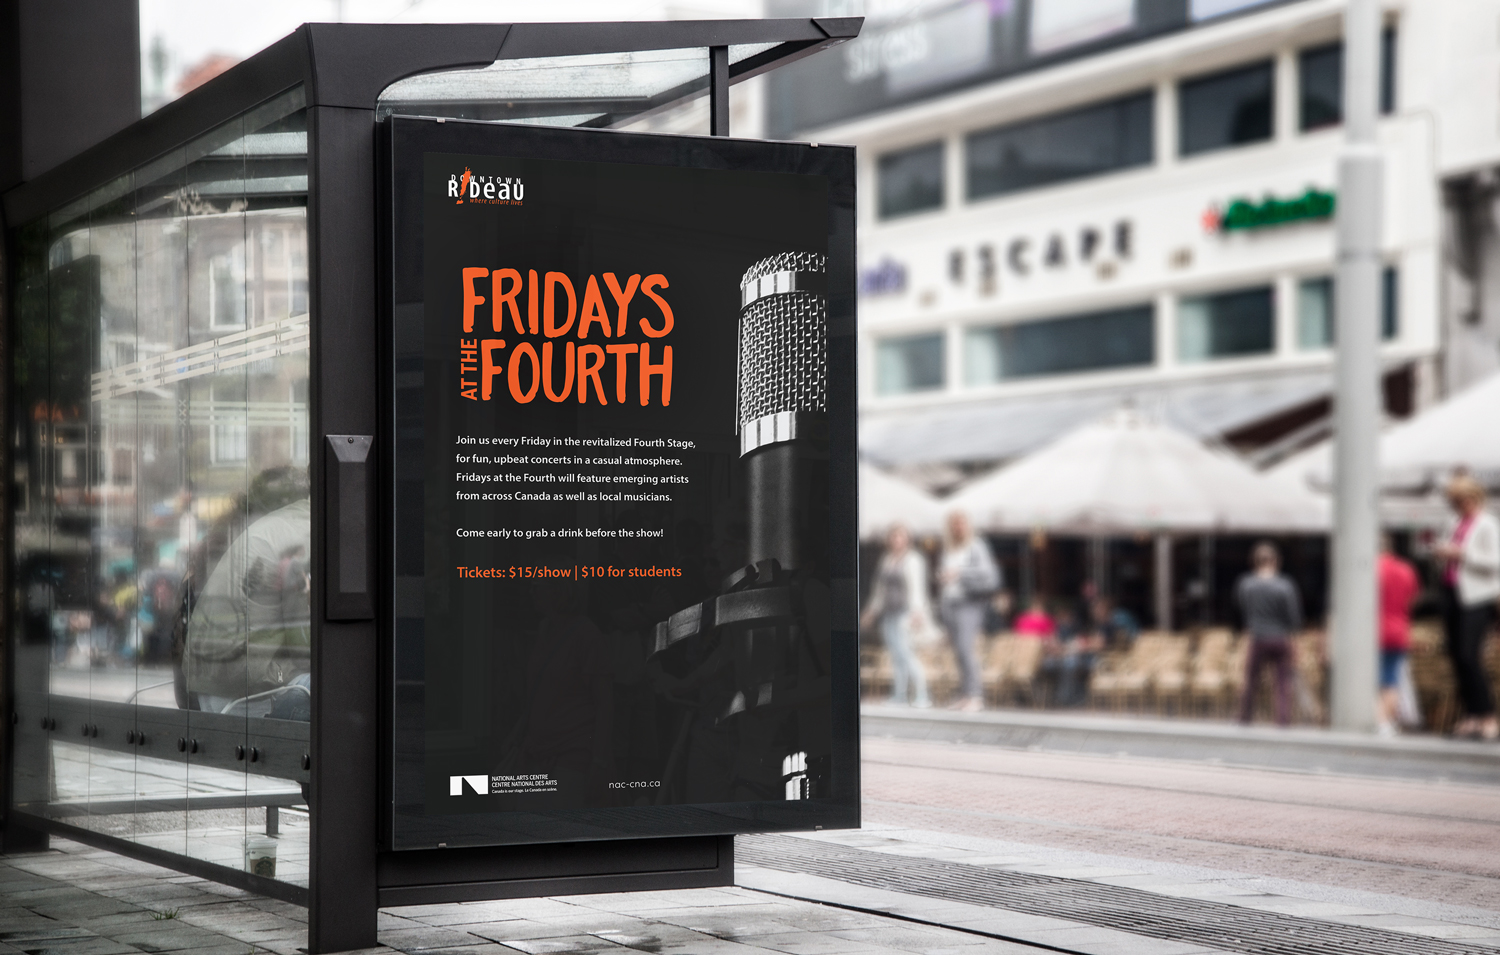
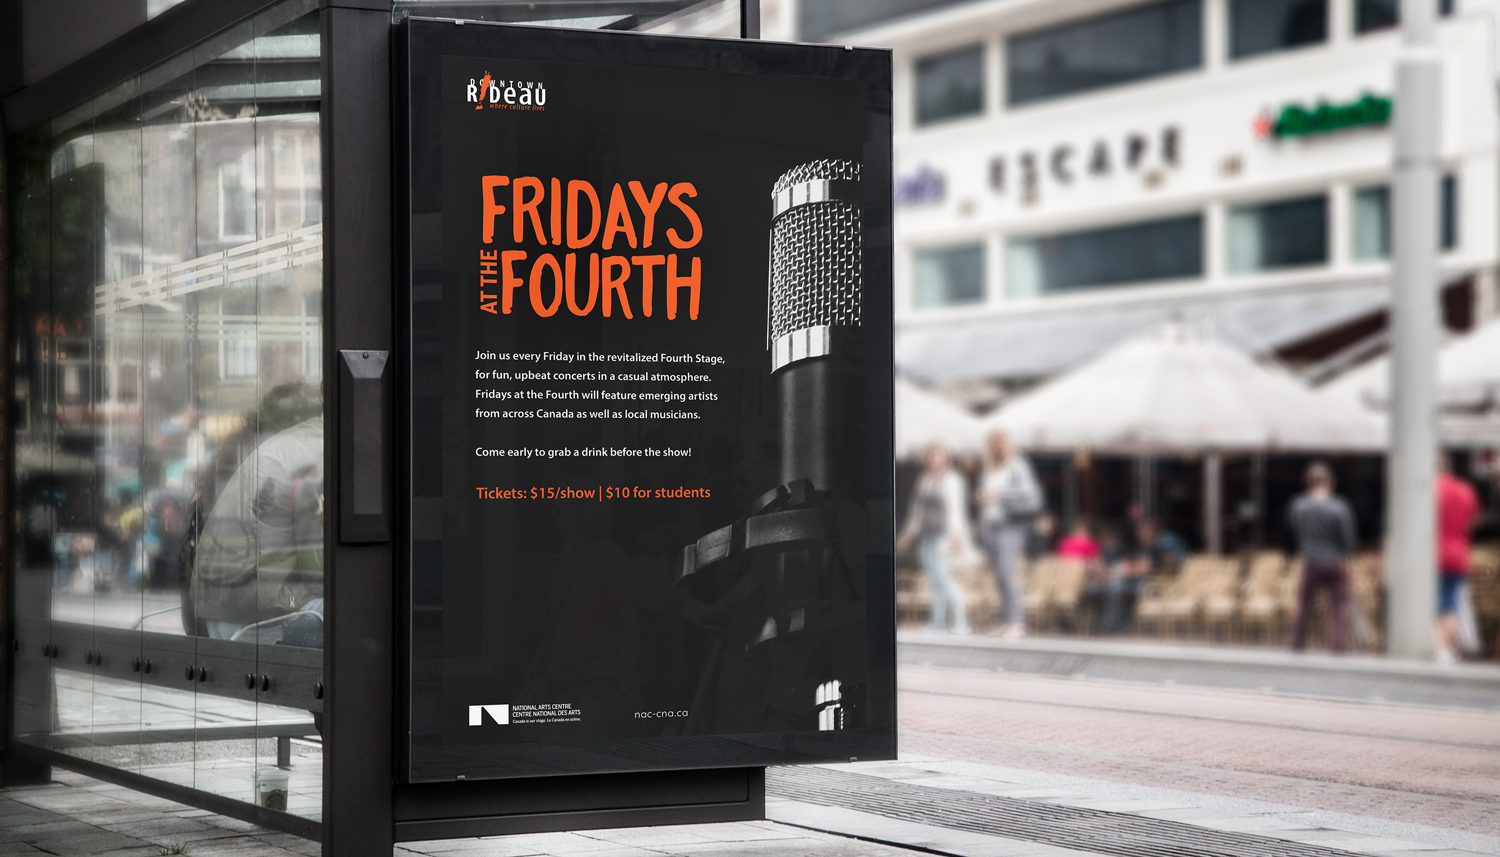
image size updates

diff --git a/vans.html b/vans.html
@@ -6,12 +6,8 @@ layout: default
     <h3 class="island">Vans</h3>
     <div class="pieces grid">
 
-      <div class="card unit s-1 island">
-        <img class="portfolio-piece" src="{{site.baseurl}}/images/vans/poster.jpg" alt="Vans Poster">
-      </div>
-
       <div class="card unit s-1 m-1-2 island">
-        <img class="portfolio-piece" src="{{site.baseurl}}/images/vans/sketch.jpg" alt="Art Deco Sketches">
+        <img class="portfolio-piece" src="{{site.baseurl}}/images/vans/bag.jpg" alt="Vans Poster">
       </div>
 
       <div class="unit multi s-1 m-1-2 island">
@@ -20,11 +16,15 @@ layout: default
       </div>
 
       <div class="card unit s-1 m-1-2 island">
-        <img class="portfolio-piece" src="{{site.baseurl}}/images/vans/bag.jpg" alt="Vans Shopping Bag">
+        <img class="portfolio-piece" src="{{site.baseurl}}/images/vans/sketch.jpg" alt="Art Deco Sketches">
       </div>
 
       <div class="card unit s-1 m-1-2 island">
-        <img class="portfolio-piece" src="{{site.baseurl}}/images/vans/card.jpg" alt="Vans Gift Card">
+        <img class="portfolio-piece" src="{{site.baseurl}}/images/vans/card.jpg" alt="Vans Shopping Bag">
+      </div>
+
+      <div class="card unit s-1 island">
+        <img class="portfolio-piece" src="{{site.baseurl}}/images/vans/poster.jpg" alt="Vans Gift Card">
       </div>
 
     </div>

diff --git a/drbia.html b/drbia.html
@@ -7,7 +7,7 @@ layout: default
     <div class="pieces grid">
 
       <div class="card unit s-1 m-1-2 island">
-        <img class="portfolio-piece" src="{{site.baseurl}}/images/drbia/ads.png" alt="The Fourth at the NAC poster">
+        <img class="portfolio-piece" src="{{site.baseurl}}/images/drbia/ads.jpg" alt="The Fourth at the NAC poster">
       </div>
 
       <div class="unit s-1 m-1-2 island">
